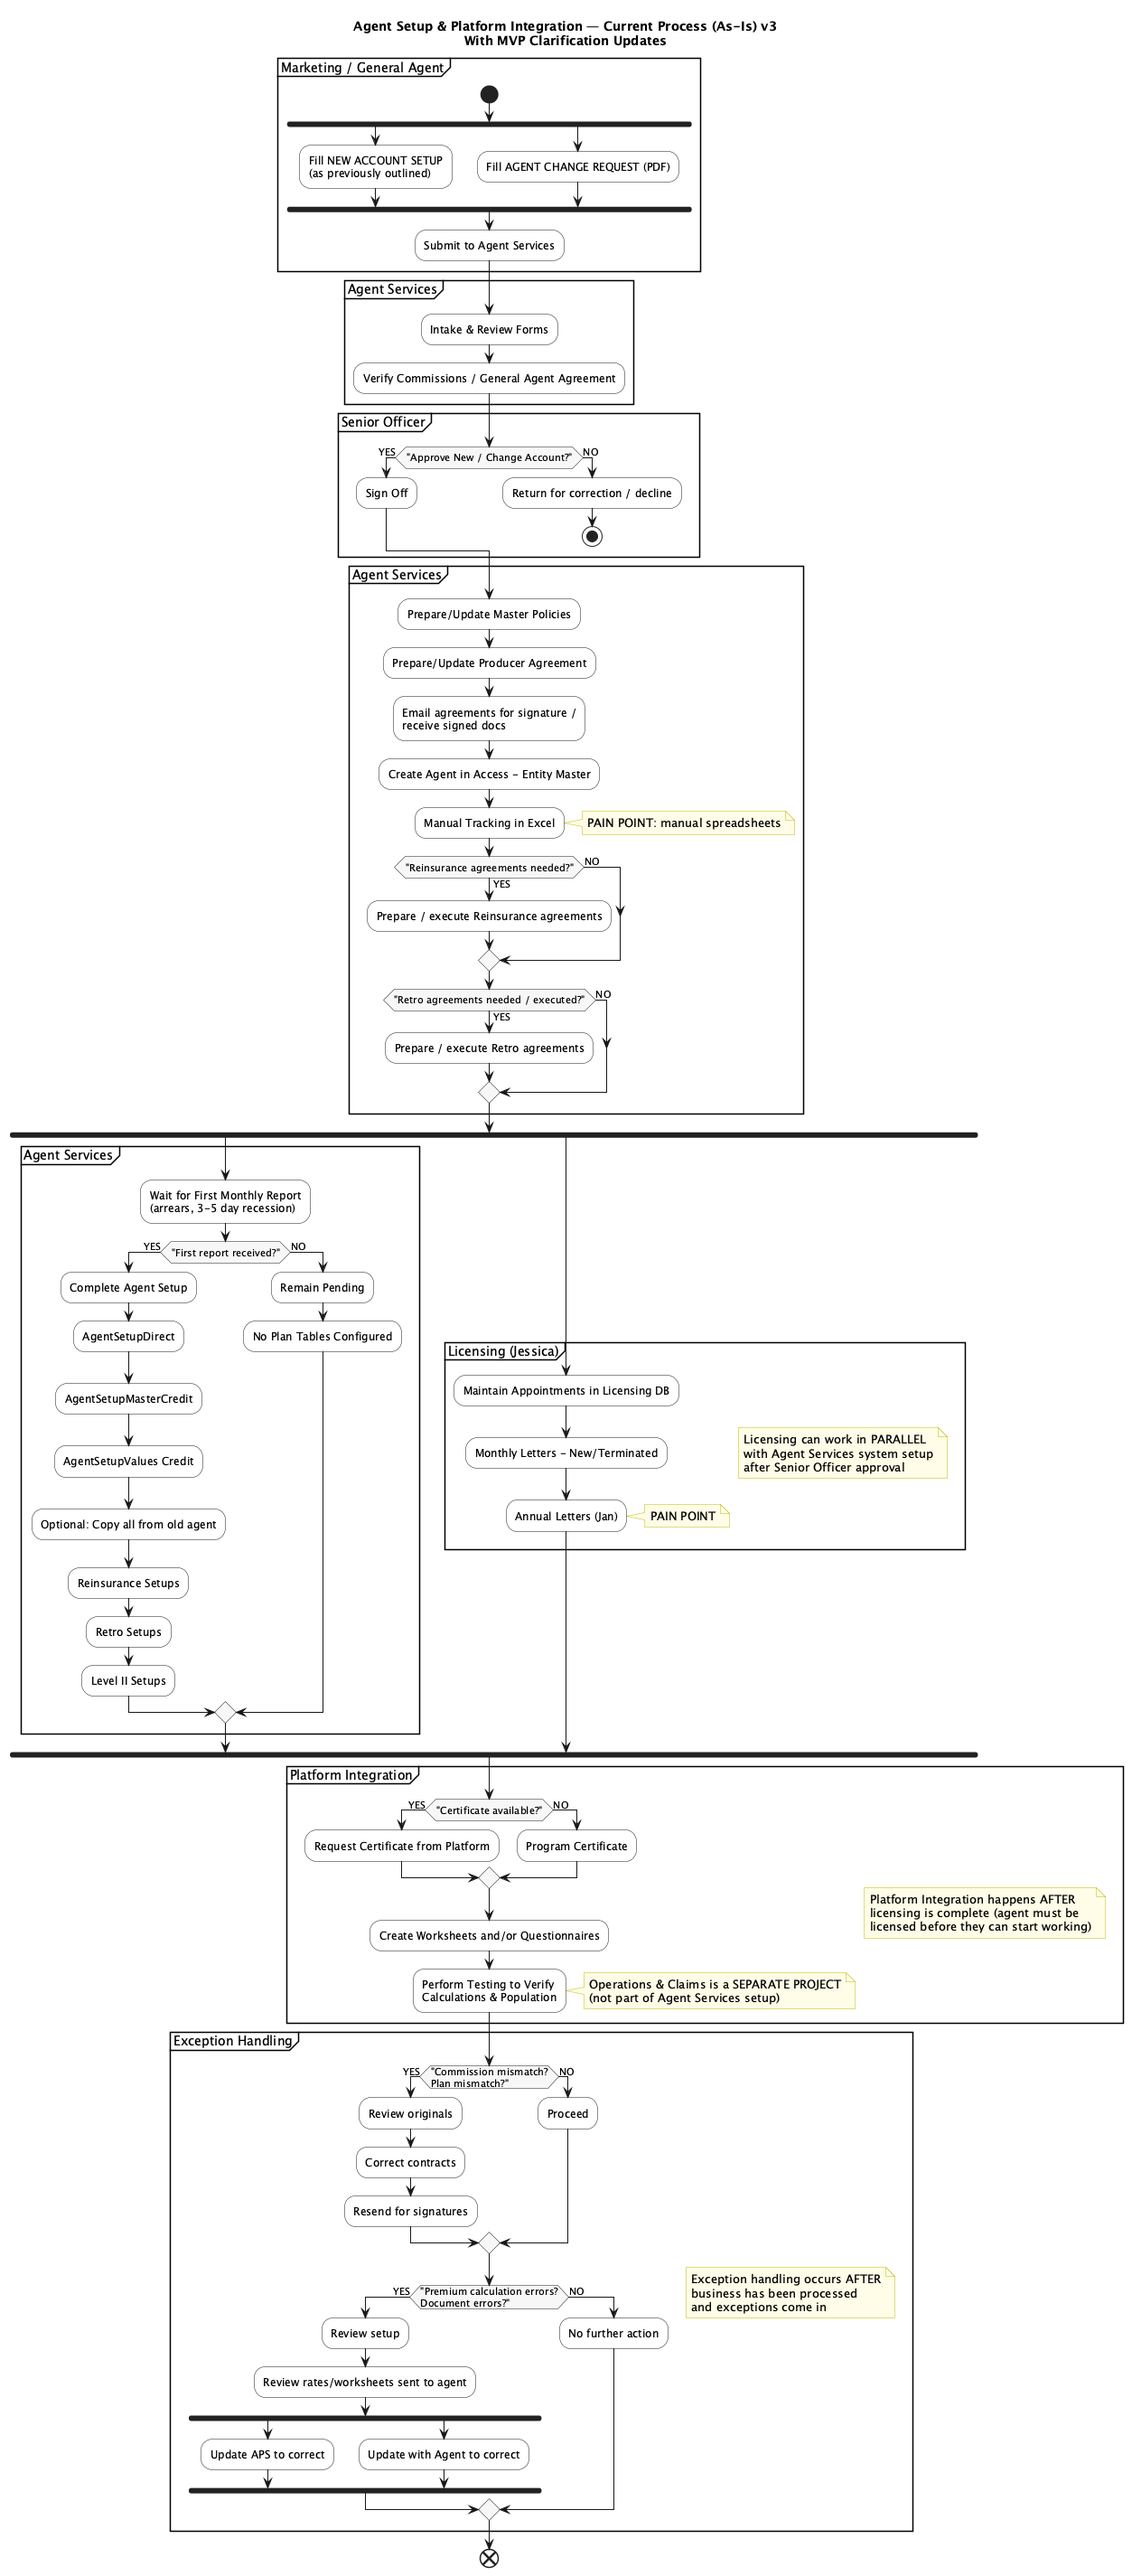
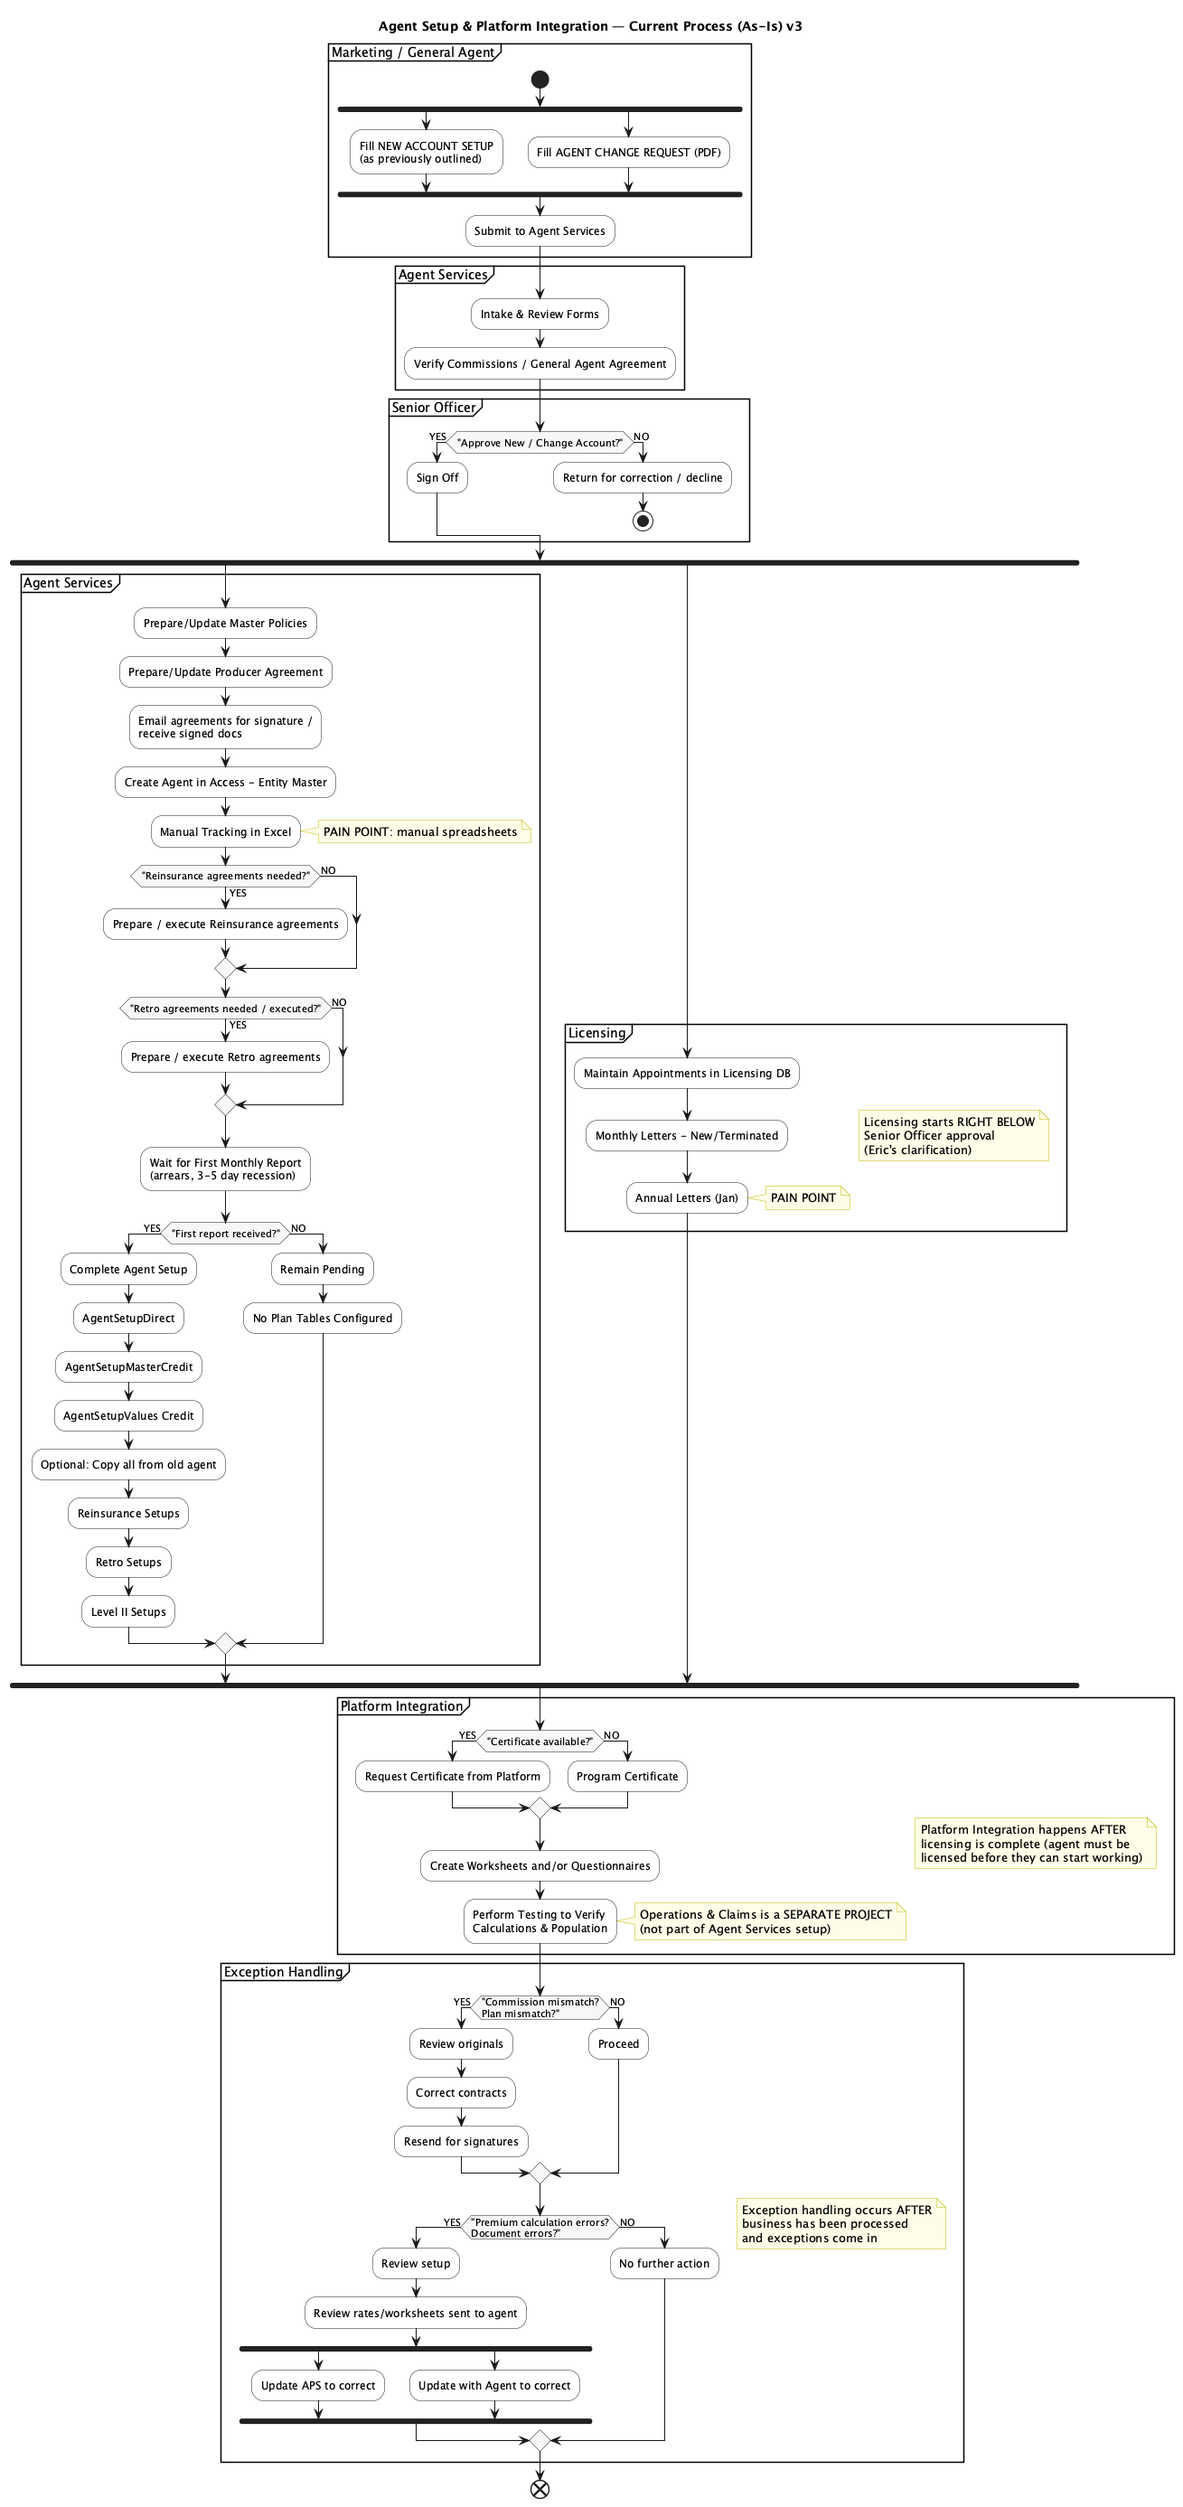
fix: remove personal names and unnecessary clarifications from diagram titles
- Removed 'Jessica' personal name from all As-Is diagrams:
  - current_process_as_is_v3.puml
  - current_process_as_is.puml
  - current_process_as_is_v1.puml
  - Changed 'Licensing (Jessica)' to 'Licensing'

- Removed unnecessary clarifications from diagram titles:
  - current_process_as_is_v3.puml: removed 'With MVP Clarification Updates'
  - agent_services_proposal_v3.puml: removed 'Complete Process with PLATEAU Integration & MVP Clarification'

- Regenerated PNG images for all updated diagrams
- Copied updated PNG files to Project Documentation folder

This makes the diagrams cleaner and removes personal information and unnecessary descriptive text from titles.

diff --git a/Project Documentation/Agent Services - Project Overview.md b/Project Documentation/Agent Services - Project Overview.md
@@ -50,7 +50,7 @@ Agent Services is a department responsible for setting up and managing agents (f
 
 ### **Updated Process Flow Diagram (v3):**
 ![Current Process (As-Is) v3](current_process_as_is_v3.png)
-*Updated current process incorporating MVP clarification feedback from Eric - Operations & Claims as separate project, exception handling after business processing, licensing works in parallel with Agent Services system setup, but both complete BEFORE Platform Integration*
+*Updated current process incorporating MVP clarification feedback from Eric - Operations & Claims as separate project, exception handling after business processing, licensing starts RIGHT BELOW Senior Officer approval and works in parallel with all Agent Services processes*
 
 ### 1. **Initiation Phase**
 - **Trigger:** Marketing Rep or General Agent submits forms
@@ -211,7 +211,7 @@ PLATEAU (Web System) ←→ Access (Legacy Agent Services)
 
 ### **Updated Target Process Flow Diagram (v3):**
 ![Proposal Process v3](agent_services_proposal_v3.png)
-*Updated proposal process incorporating MVP clarification - PLATEAU System (C#/Blazor), Agent Portal with Okta 2FA, Citrix ShareFile E-Sign, parallel licensing process (completes before Platform Integration), and clarified exception handling*
+*Updated proposal process incorporating MVP clarification - PLATEAU System (C#/Blazor), Agent Portal with Okta 2FA, Citrix ShareFile E-Sign, licensing starts RIGHT BELOW Senior Officer approval and works in parallel with all processes, and clarified exception handling*
 
 ### **Key Improvements from MVP Clarification:**
 
@@ -232,10 +232,10 @@ PLATEAU (Web System) ←→ Access (Legacy Agent Services)
 - **Document Storage:** Integrated document management
 
 #### **4. Parallel Process Optimization:**
-- **Licensing Parallelism:** Licensing can work in parallel with Agent Services system setup after Senior Officer approval
-- **Timing:** Both processes start after signing with agent, but can run simultaneously
-- **Independence:** Licensing system and Agent Services setup are not integrated, allowing parallel execution
-- **Critical Order:** Both licensing and system setup must complete BEFORE Platform Integration (agent must be licensed before they can start working)
+- **Licensing Timing:** Licensing starts RIGHT BELOW Senior Officer approval (Eric's exact words: "licensing or right below the senior officer")
+- **Parallel Execution:** Licensing works in parallel with ALL Agent Services processes (document preparation, E-Sign, system setup)
+- **Independence:** Licensing system and Agent Services processes are not integrated, allowing parallel execution
+- **Critical Order:** All processes (including licensing) must complete BEFORE Platform Integration (agent must be licensed before they can start working)
 
 #### **5. Clarified Exception Handling:**
 - **Timing:** Exception handling occurs AFTER business processing
